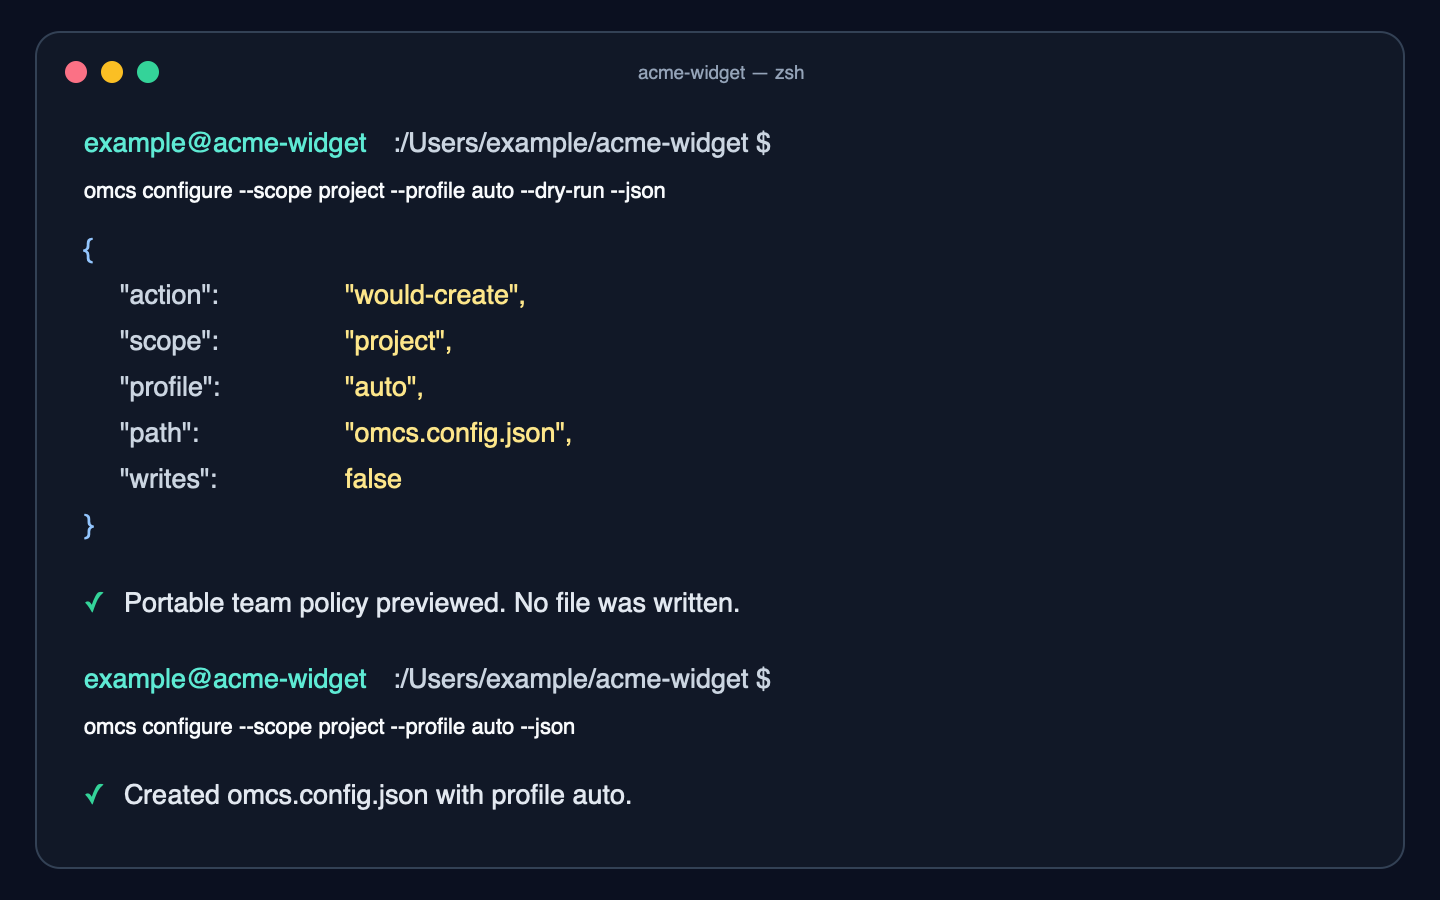
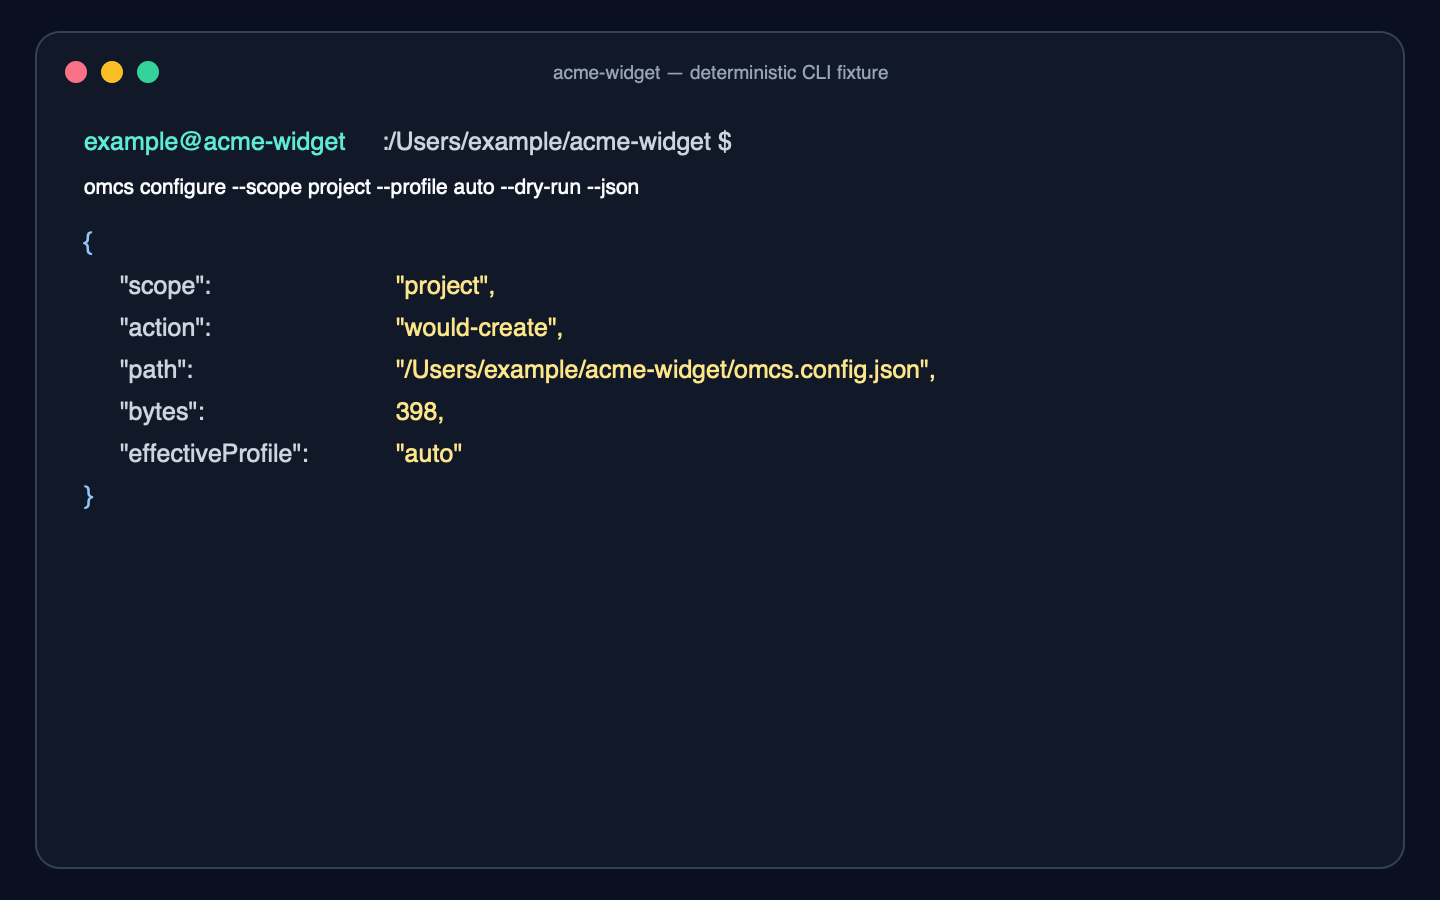
fix: harden OMCS public documentation assets

diff --git a/src/scripts/verify-doc-assets.ts b/src/scripts/verify-doc-assets.ts
@@ -1,4 +1,6 @@
 #!/usr/bin/env node
+import { createHash } from "node:crypto";
+import { spawnSync } from "node:child_process";
 import { readdir, readFile, stat } from "node:fs/promises";
 import { dirname, join, relative, resolve } from "node:path";
 import { fileURLToPath } from "node:url";
@@ -30,7 +32,43 @@ export interface PublicDocsReport {
 
 export interface VerifyPublicDocsOptions {
 	repositoryRoot?: string;
+	pngReviewManifest?: PngReviewManifest;
 }
+
+export interface PngReviewFixture {
+	sha256: string;
+	visibleText: readonly string[];
+}
+
+export type PngReviewManifest = Readonly<Record<(typeof screenshotNames)[number], PngReviewFixture>>;
+
+/** Exact reviewed fixture bytes bind this text-only manifest to the rendered screenshots. */
+export const REVIEWED_PNG_FIXTURES: PngReviewManifest = {
+	"omcs-configure-project.png": {
[1 lines of base64/hex data omitted]
+		visibleText: [
+			"acme-widget — zsh", "/Users/example/acme-widget", "omcs configure --scope project --profile auto --dry-run --json",
+			"scope: project", "action: would-create", "path: /Users/example/acme-widget/omcs.config.json", "bytes: 363", "effectiveProfile: auto",
+			"omcs configure --scope project --profile auto --json", "scope: project", "action: create", "bytes: 363", "effectiveProfile: auto",
+		],
+	},
+	"omcs-route-declaration.png": {
[1 lines of base64/hex data omitted]
+		visibleText: [
+			"acme-widget — Codex CLI", "/Users/example/acme-widget", "Use OMCS to solve this issue", "OMCS ROUTE", "profile: auto", "mode: full",
+			"risk: public interface with persistent configuration", "skills: context, codebase-design, plan, tdd, verification, code-review",
+			"agents: architect → explorer + librarian → terra-fixer → reviewer", "approval: material-decisions",
+		],
+	},
+	"omcs-verification-receipt.png": {
[1 lines of base64/hex data omitted]
+		visibleText: [
+			"acme-widget — synthetic receipt fixture", "/Users/example/acme-widget",
+			".omcs/runs/2026-08-26T12-00-00-000Z-12345678-1234-4abc-8def-1234567890ab.json", "schemaVersion: 1", "profile: auto", "route: full",
+			"skills: tdd, verification", "agents: omcs_architect, omcs_reviewer", "approval: material-decisions", "command: npm test", "outcome: passed", "verdict: ship",
+		],
+	},
+};
 
 function fail(message: string): never {
 	throw new Error(`documentation-assets: ${message}`);
@@ -46,13 +84,115 @@ function titleFromMermaid(source: string, path: string): string {
 	return title;
 }
 
-function titleFromSvg(source: string, path: string): string {
-	if (!/^<\?xml\s+version=/i.test(source) || !/<svg\b[^>]*\bviewBox="0 0 \d+ \d+"[^>]*>/i.test(source)) {
+interface XmlElement {
+	name: string;
+	attributes: Record<string, string>;
+	children: XmlElement[];
+	text: string;
+}
+
+function readTagEnd(source: string, start: number): number {
+	let quote: "\"" | "'" | undefined;
+	for (let index = start; index < source.length; index += 1) {
+		const char = source[index];
+		if (quote) {
+			if (char === quote) quote = undefined;
+		} else if (char === "\"" || char === "'") quote = char;
+		else if (char === ">") return index;
+	}
+	fail("SVG is not well-formed XML: unterminated tag");
+}
+
+function parseAttributes(source: string, path: string): { name: string; attributes: Record<string, string>; selfClosing: boolean } {
+	const trimmed = source.trim();
+	const selfClosing = trimmed.endsWith("/");
+	const content = (selfClosing ? trimmed.slice(0, -1) : trimmed).trim();
+	const name = /^[A-Za-z_:][A-Za-z0-9_.:-]*/.exec(content)?.[0];
+	if (!name) fail(`SVG is not well-formed XML: invalid element in ${path}`);
+	const attributes: Record<string, string> = {};
+	let index = name.length;
+	while (index < content.length) {
+		while (/\s/.test(content[index] ?? "")) index += 1;
+		if (index === content.length) break;
+		const attribute = /^[A-Za-z_:][A-Za-z0-9_.:-]*/.exec(content.slice(index))?.[0];
+		if (!attribute || attributes[attribute] !== undefined) fail(`SVG is not well-formed XML: invalid attribute in ${path}`);
+		index += attribute.length;
+		while (/\s/.test(content[index] ?? "")) index += 1;
+		if (content[index] !== "=") fail(`SVG is not well-formed XML: missing attribute value in ${path}`);
+		index += 1;
+		while (/\s/.test(content[index] ?? "")) index += 1;
+		const quote = content[index];
+		if (quote !== "\"" && quote !== "'") fail(`SVG is not well-formed XML: unquoted attribute in ${path}`);
+		const end = content.indexOf(quote, index + 1);
+		if (end < 0) fail(`SVG is not well-formed XML: unterminated attribute in ${path}`);
+		attributes[attribute] = content.slice(index + 1, end);
+		index = end + 1;
+	}
+	return { name, attributes, selfClosing };
+}
+
+/** Parses the small, inert SVG subset we ship and rejects malformed XML structurally. */
+export function parseSvgDiagram(source: string, path: string): { title: string; width: number; height: number } {
+	if (!source.startsWith("<?xml")) fail(`SVG is not well-formed XML: missing declaration in ${path}`);
+	const stack: XmlElement[] = [];
+	let root: XmlElement | undefined;
+	let index = 0;
+	while (index < source.length) {
+		const next = source.indexOf("<", index);
+		if (next < 0) {
+			if (source.slice(index).trim() !== "") fail(`SVG is not well-formed XML: trailing text in ${path}`);
+			break;
+		}
+		if (next > index) {
+			const current = stack.at(-1);
+			if (current) current.text += source.slice(index, next);
+		}
+		if (source.startsWith("<?", next)) {
+			const end = source.indexOf("?>", next + 2);
+			if (end < 0) fail(`SVG is not well-formed XML: unterminated declaration in ${path}`);
+			index = end + 2;
+			continue;
+		}
+		if (source.startsWith("<!--", next)) {
+			const end = source.indexOf("-->", next + 4);
+			if (end < 0) fail(`SVG is not well-formed XML: unterminated comment in ${path}`);
+			index = end + 3;
+			continue;
+		}
+		if (source.startsWith("<![CDATA[", next)) {
+			const end = source.indexOf("]]>", next + 9);
+			if (end < 0 || stack.length === 0) fail(`SVG is not well-formed XML: invalid CDATA in ${path}`);
+			const current = stack.at(-1);
+			if (current) current.text += source.slice(next + 9, end);
+			index = end + 3;
+			continue;
+		}
+		if (source.startsWith("</", next)) {
+			const end = source.indexOf(">", next + 2);
+			const name = source.slice(next + 2, end).trim();
+			const current = stack.pop();
+			if (end < 0 || !current || current.name !== name) fail(`SVG is not well-formed XML: mismatched close tag in ${path}`);
+			index = end + 1;
+			continue;
+		}
+		if (source.startsWith("<!", next)) fail(`SVG is not well-formed XML: unsupported declaration in ${path}`);
+		const end = readTagEnd(source, next + 1);
+		const parsed = parseAttributes(source.slice(next + 1, end), path);
+		const node: XmlElement = { name: parsed.name, attributes: parsed.attributes, children: [], text: "" };
+		if (stack.length === 0) {
+			if (root) fail(`SVG is not well-formed XML: multiple roots in ${path}`);
+			root = node;
+		} else stack.at(-1)?.children.push(node);
+		if (!parsed.selfClosing) stack.push(node);
+		index = end + 1;
+	}
+	if (!root || stack.length !== 0 || root.name !== "svg") fail(`SVG is not well-formed XML: incomplete SVG root in ${path}`);
+	const title = root.children.find((child) => child.name === "title")?.text.trim();
+	const viewBox = root.attributes.viewBox?.split(/\s+/).map(Number);
+	if (!title || !viewBox || viewBox.length !== 4 || viewBox[0] !== 0 || viewBox[1] !== 0 || !Number.isFinite(viewBox[2]) || !Number.isFinite(viewBox[3])) {
 		fail(`SVG is not a bounded XML diagram: ${path}`);
 	}
-	const title = /<title>([^<]+)<\/title>/i.exec(source)?.[1]?.trim();
-	if (!title) fail(`SVG has no title: ${path}`);
-	return title;
+	return { title, width: viewBox[2], height: viewBox[3] };
 }
 
 function pngDimensions(bytes: Buffer, path: string): { width: number; height: number } {
@@ -102,6 +242,39 @@ async function assertNoUnsafeContent(root: string): Promise<void> {
 	}
 }
 
+function assertSafeReviewedText(name: string, fixture: PngReviewFixture): void {
+	if (!/^[a-f0-9]{64}$/.test(fixture.sha256) || fixture.visibleText.length === 0) fail(`invalid PNG review manifest: ${name}`);
+	if (unsafeContentPatterns.some((pattern) => fixture.visibleText.some((value) => pattern.test(value)))) fail(`unsafe reviewed PNG text: ${name}`);
+}
+
+async function assertReviewedPng(root: string, name: (typeof screenshotNames)[number], fixture: PngReviewFixture): Promise<void> {
+	assertSafeReviewedText(name, fixture);
+	const bytes = await readFile(join(root, "docs", "assets", name));
+	if (createHash("sha256").update(bytes).digest("hex") !== fixture.sha256) fail(`reviewed digest does not match: ${name}`);
+}
+
+function packagePaths(root: string): Set<string> {
+	const packed = spawnSync("npm", ["pack", "--json", "--dry-run"], { cwd: root, encoding: "utf8" });
+	if (packed.status !== 0) fail(`unable to inspect npm package: ${packed.stderr || packed.stdout}`);
+	try {
+		const value = JSON.parse(packed.stdout) as Array<{ files?: Array<{ path?: unknown }> }>;
+		return new Set(value[0]?.files?.map((file) => file.path).filter((path): path is string => typeof path === "string") ?? []);
+	} catch { fail("unable to parse npm package inspection"); }
+}
+
+async function assertPackagedReadmeLinks(root: string): Promise<void> {
+	const readmePath = join(root, "README.md");
+	const links = (await readFile(readmePath, "utf8")).matchAll(/!?(?:\[[^\]]*\])\(([^)]+)\)/g);
+	const packaged = packagePaths(root);
+	for (const match of links) {
+		const target = match[1]?.split("#", 1)[0] ?? "";
+		if (!target || /^(?:https?:|mailto:|#)/i.test(target)) continue;
+		const candidate = relative(root, resolve(dirname(readmePath), target));
+		if (candidate === "" || candidate.startsWith("..")) fail(`README has an unsafe relative link: ${target}`);
+		if (!packaged.has(candidate)) fail(`README link is not packaged: ${target}`);
+	}
+}
+
 async function assertReadmeLinks(root: string): Promise<void> {
 	const readme = await readFile(join(root, "README.md"), "utf8");
 	for (const guide of guidePaths.slice(1)) {
@@ -115,9 +288,11 @@ async function assertReadmeLinks(root: string): Promise<void> {
 
 export async function verifyPublicDocs(options: VerifyPublicDocsOptions = {}): Promise<PublicDocsReport> {
 	const root = resolve(options.repositoryRoot ?? repositoryRoot);
+	const pngReviewManifest = options.pngReviewManifest ?? REVIEWED_PNG_FIXTURES;
 	await assertNoUnsafeContent(root);
 	for (const guide of guidePaths) await stat(join(root, guide));
 	await assertReadmeLinks(root);
+	await assertPackagedReadmeLinks(root);
 
 	for (const diagram of diagramNames) {
 		const sourcePath = join(root, "docs", "diagrams", `${diagram}.mmd`);
@@ -125,7 +300,7 @@ export async function verifyPublicDocs(options: VerifyPublicDocsOptions = {}): P
 		const source = await readFile(sourcePath, "utf8");
 		const svg = await readFile(svgPath, "utf8");
 		assertAssetSize(svgPath, Buffer.from(svg));
-		if (titleFromMermaid(source, sourcePath) !== titleFromSvg(svg, svgPath)) fail(`diagram titles do not match: ${diagram}`);
+		if (titleFromMermaid(source, sourcePath) !== parseSvgDiagram(svg, svgPath).title) fail(`diagram titles do not match: ${diagram}`);
 	}
 
 	for (const screenshot of screenshotNames) {
@@ -134,6 +309,7 @@ export async function verifyPublicDocs(options: VerifyPublicDocsOptions = {}): P
 		assertAssetSize(path, bytes);
 		const { width, height } = pngDimensions(bytes, path);
 		assertDimensions(path, width, height);
+		await assertReviewedPng(root, screenshot, pngReviewManifest[screenshot]);
 	}
 
 	return { guides: guidePaths.length, diagrams: [...diagramNames], screenshots: [...screenshotNames] };

diff --git a/src/scripts/__tests__/verify-doc-assets.test.ts b/src/scripts/__tests__/verify-doc-assets.test.ts
@@ -3,7 +3,7 @@ import { mkdtemp, mkdir, readFile, rm, writeFile } from "node:fs/promises";
 import { tmpdir } from "node:os";
 import { join } from "node:path";
 import { describe, it } from "node:test";
-import { verifyPublicDocs } from "../verify-doc-assets.js";
+import { parseSvgDiagram, REVIEWED_PNG_FIXTURES, verifyPublicDocs } from "../verify-doc-assets.js";
 
 const repositoryRoot = process.cwd();
 
@@ -42,5 +42,23 @@ describe("public OMCS documentation assets", () => {
 			assert.match(svg, /<svg\b[^>]*>/i);
 			assert.match(svg, /<title>.+<\/title>/i);
 		}
+	});
+
+	it("rejects malformed SVG XML instead of treating tag-shaped text as a diagram", () => {
+		assert.throws(
+			() => parseSvgDiagram('<?xml version="1.0"?><svg viewBox="0 0 480 320"><title>Broken</title><g></svg>', "fixture.svg"),
+			/well-formed XML/i,
+		);
+	});
+
+	it("rejects a PNG when its reviewed digest no longer matches the checked-in bytes", async () => {
+		const name = "omcs-configure-project.png";
+		await assert.rejects(
+			verifyPublicDocs({
+				repositoryRoot,
+				pngReviewManifest: { ...REVIEWED_PNG_FIXTURES, [name]: { ...REVIEWED_PNG_FIXTURES[name], sha256: "0".repeat(64) } },
+			}),
+			/reviewed digest does not match/i,
+		);
 	});
 });

diff --git a/docs/troubleshooting.md b/docs/troubleshooting.md
@@ -44,7 +44,7 @@ New OpenCodex-to-Codex-Router cutovers are not supported. Never delete rollback 
 The canonical selector is `oh-my-codex-slim@omcs-local`:
 
 ```bash
-codex plugin marketplace add <repo> --json
+codex plugin marketplace add Rafcin/oh-my-codex-slim --ref main --json
 codex plugin add oh-my-codex-slim@omcs-local --json
 codex plugin list --json
 ```
@@ -68,4 +68,4 @@ OMCS may raise its route when it discovers a broader interface, persistent contr
 
 ## Attribution and support evidence
 
-Include the OMCS version, redacted doctor/status output, and the exact non-secret failing path. The attribution ledger names Yeachan Heo, Alvin, Matt Pocock, Daniel McAteer, `opencodex contributors`/`lidge-jun`, Herrington Darkholme (`HerringtonDarkholme`), behavioral-reference owner `code-yeongyu`, and legacy compatibility authors/owners `codex-router contributors`, `Duola`, and `duolahypercho`. See [THIRD_PARTY_NOTICES.md](../THIRD_PARTY_NOTICES.md); do not invent fuller names.
+Include the OMCS version, redacted doctor/status output, and the exact non-secret failing path. The attribution ledger names Yeachan Heo, Alvin, Matt Pocock, Daniel McAteer, YeonGyu-Kim (published package author for the behavioral-only reference; no copyright/licensor is invented), `opencodex contributors`/`lidge-jun`, Herrington Darkholme (`HerringtonDarkholme`), behavioral-reference owner `code-yeongyu`, and legacy compatibility authors/owners `codex-router contributors`, `Duola`, and `duolahypercho`. See [THIRD_PARTY_NOTICES.md](../THIRD_PARTY_NOTICES.md); do not invent fuller names.

diff --git a/docs/installation.md b/docs/installation.md
@@ -10,10 +10,21 @@ OMCS has no tmux, OpenCode, LazyCodex, telemetry, provider-SDK, or Codex Router 
 
 ## Register discovery with Codex
 
-The package ships `.agents/plugins/marketplace.json` with marketplace `omcs-local` and plugin `oh-my-codex-slim`. The canonical selector is `oh-my-codex-slim@omcs-local`. Codex CLI is the sole owner of `[marketplaces.omcs-local]` registration:
+The package ships `.agents/plugins/marketplace.json` with marketplace `omcs-local` and plugin `oh-my-codex-slim`. The canonical selector is `oh-my-codex-slim@omcs-local`. Build and install the local package first; this release does not claim npm-registry publication:
 
 ```bash
-codex plugin marketplace add <repo> --json
+git clone https://github.com/Rafcin/oh-my-codex-slim.git
+cd oh-my-codex-slim
+npm ci
+npm run build
+npm pack
+npm install -g ./oh-my-codex-slim-0.1.0.tgz
+```
+
+Codex CLI is the sole owner of `[marketplaces.omcs-local]` registration. Add the exact public repository and ref, then select the plugin:
+
+```bash
+codex plugin marketplace add Rafcin/oh-my-codex-slim --ref main --json
 codex plugin add oh-my-codex-slim@omcs-local --json
 codex plugin list --json
 ```

diff --git a/README.md b/README.md
@@ -86,8 +86,13 @@ intent → config / route → context / grill → explore / research → design 
 Requires Node.js 22.19 or newer and Codex CLI. OpenCodex is optional—install it separately only when you want external-model routing.
 
 ```bash
-npm install -g oh-my-codex-slim
-codex plugin marketplace add <repo> --json
+git clone https://github.com/Rafcin/oh-my-codex-slim.git
+cd oh-my-codex-slim
+npm ci
+npm run build
+npm pack
+npm install -g ./oh-my-codex-slim-0.1.0.tgz
+codex plugin marketplace add Rafcin/oh-my-codex-slim --ref main --json
 codex plugin add oh-my-codex-slim@omcs-local --json
 omcs setup --dry-run --json
 omcs setup --json
